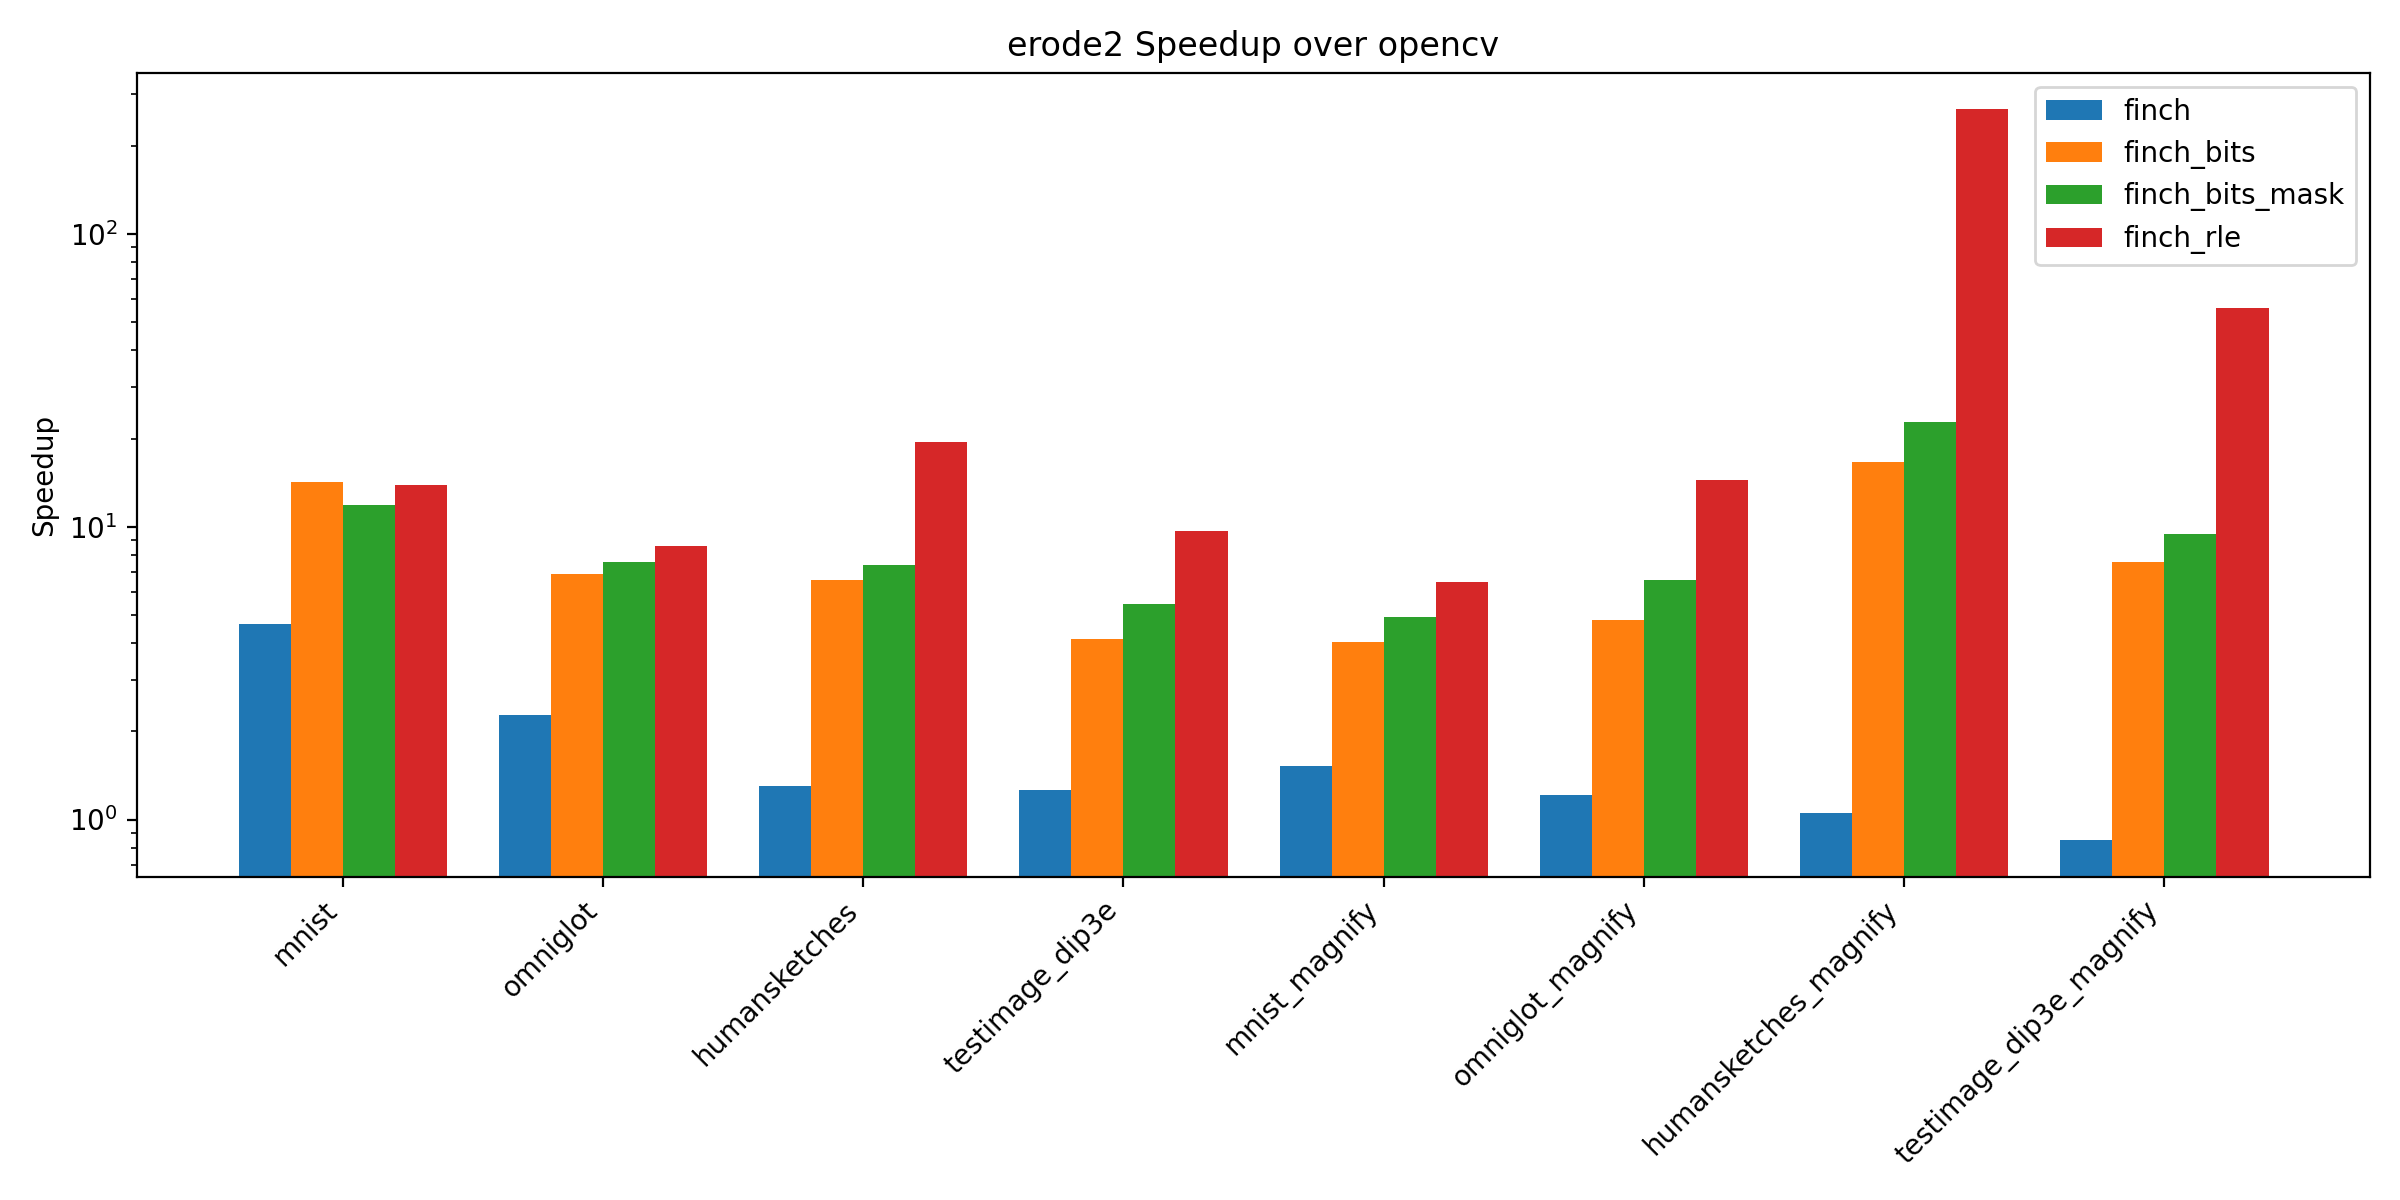
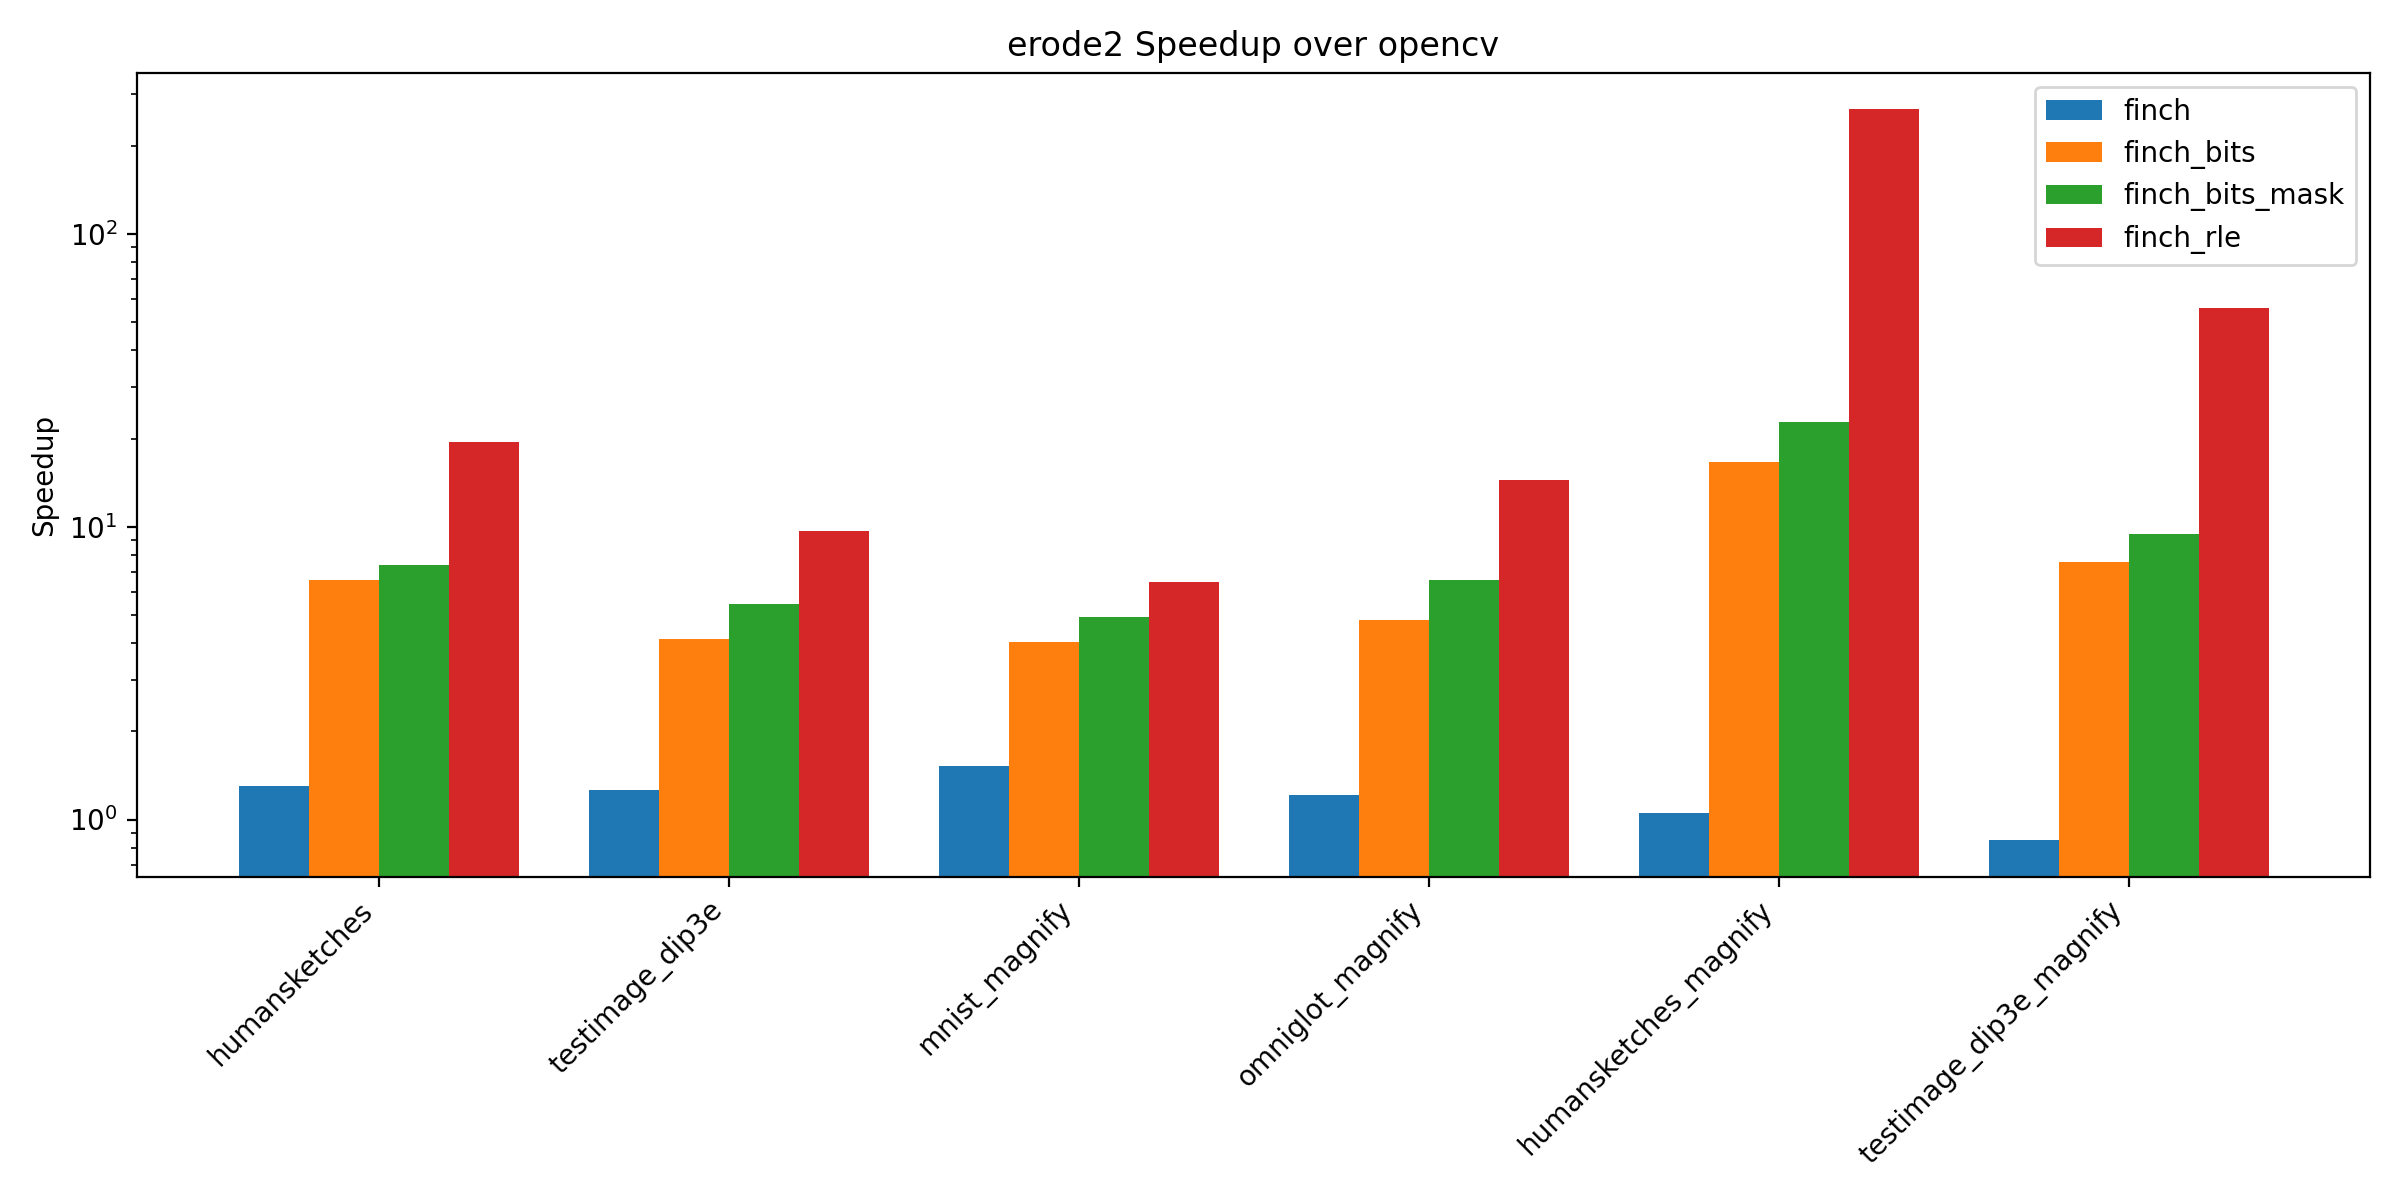
exclude

diff --git a/morphology/chart.py b/morphology/chart.py
@@ -8,7 +8,9 @@ from scipy.stats import gmean
 RESULTS_FILE_PATH = "lanka_data.json"
 CHARTS_DIRECTORY = "./charts/"  # Ensure this directory exists
 
-def generate_chart_for_operation(operation, baseline_method="opencv", log_scale=False):
+def generate_chart_for_operation(operation, baseline_method="opencv", log_scale=False, excluded_datasets=None):
+    if excluded_datasets is None:
+        excluded_datasets = []
     # Load the results from the JSON file
     results = json.load(open(RESULTS_FILE_PATH, 'r'))
 
@@ -18,7 +20,7 @@ def generate_chart_for_operation(operation, baseline_method="opencv", log_scale=
 
     # Filter results by the specific operation and prepare data
     for result in results:
-        if result["operation"] != operation:
+        if result["operation"] != operation or result["dataset"] in excluded_datasets:
             continue
 
         dataset = result["dataset"]
@@ -30,7 +32,7 @@ def generate_chart_for_operation(operation, baseline_method="opencv", log_scale=
 
     # Calculate speedup relative to baseline
     for result in results:
-        if result["operation"] != operation:
+        if result["operation"] != operation or result["dataset"] in excluded_datasets:
             continue
 
         dataset = result["dataset"]
@@ -79,6 +81,6 @@ if not os.path.exists(CHARTS_DIRECTORY):
     os.makedirs(CHARTS_DIRECTORY)
 
 # Generate charts for each operation by calling the function with the operation and baseline method
-generate_chart_for_operation("erode2", baseline_method="opencv", log_scale=True)
-generate_chart_for_operation("erode4", baseline_method="opencv", log_scale=True)
+generate_chart_for_operation("erode2", baseline_method="opencv", log_scale=True, excluded_datasets=["mnist", "omniglot"])
+generate_chart_for_operation("erode4", baseline_method="opencv", log_scale=True, excluded_datasets=["mnist", "omniglot"])
 generate_chart_for_operation("hist", baseline_method="opencv", log_scale=True)
